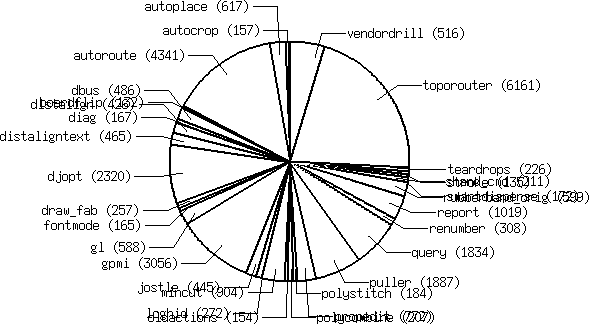
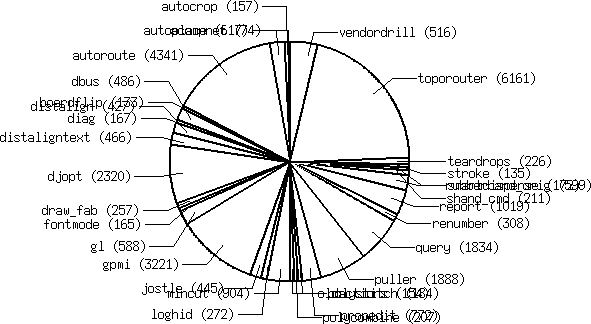
[doc] -Update: mods3 to current state
git-svn-id: svn://repo.hu/pcb-rnd/trunk@5838 1d61de99-560f-4dba-8957-1e505d42358b

diff --git a/doc/developer/mods3/index.html b/doc/developer/mods3/index.html
@@ -86,6 +86,11 @@ Below is a table with the summary of core plugins.
 <tr><th>module <th>size [sloc] <th> status <th> configure<br>default <th> class <th> description
 
 
+<tr><th align=left>acompnet<td>74
+<td  > WIP
+<td bgcolor="red"> disable
+<td> (feature)
+<td> Auto-complete the current network. A very limited autorouter/assistant. 
 <tr><th align=left>autocrop<td>157
 <td bgcolor="lightgreen" > works
 <td bgcolor="lightgreen"> buildin
@@ -101,7 +106,7 @@ Below is a table with the summary of core plugins.
 <td bgcolor="lightgreen"> buildin
 <td> (feature)
 <td> Automatically route selected or all rats. This is the original autorouter. 
-<tr><th align=left>boardflip<td>132
+<tr><th align=left>boardflip<td>133
 <td  > WIP
 <br> (doesn't update rtrees)
 <td bgcolor="red"> disabled
@@ -118,12 +123,12 @@ Below is a table with the summary of core plugins.
 <td bgcolor="red"> disabled
 <td> (feature)
 <td> Actions for pcb-rnd core diagnostics, intended for developers. These are not in core because end users normally don't need these. As a plugin, due to dynamic loading, it can be dropped on an existing pcb-rnd installation with minimal risk of scaring away a reproducible bug. 
-<tr><th align=left>distalign<td>426
+<tr><th align=left>distalign<td>427
 <td bgcolor="lightgreen" > works
 <td bgcolor="lightgreen"> buildin
 <td> (feature)
 <td> Introducing Align() and Distribute(), which work much like the similarly named functions in Visio. Given that PCB does not have the concept of "first selected object" to draw on, the reference points can be selected by arguments. 
-<tr><th align=left>distaligntext<td>465
+<tr><th align=left>distaligntext<td>466
 <td bgcolor="lightgreen" > works
 <td bgcolor="lightgreen"> buildin
 <td> (feature)
@@ -138,7 +143,7 @@ Below is a table with the summary of core plugins.
 <td bgcolor="lightgreen"> buildin
 <td> (feature)
 <td> Draw the fab layer (for various exporters). 
-<tr><th align=left>export_bboard<td>419
+<tr><th align=left>export_bboard<td>410
 <td  > WIP
 <td bgcolor="red"> disabled
 <td> export
@@ -153,17 +158,17 @@ Below is a table with the summary of core plugins.
 <td bgcolor="red"> disable
 <td> export
 <td> Export specctra .dsn files 
-<tr><th align=left>export_dxf<td>3999
+<tr><th align=left>export_dxf<td>3987
 <td  > WIP
 <td bgcolor="red"> disabled
 <td> export
 <td> Export dxf 
-<tr><th align=left>export_gcode<td>2468
+<tr><th align=left>export_gcode<td>2470
 <td bgcolor="lightgreen" > works
 <td bgcolor="lightgreen"> buildin
 <td> export
 <td> Export to gcode 
-<tr><th align=left>export_gerber<td>989
+<tr><th align=left>export_gerber<td>939
 <td bgcolor="lightgreen" > works
 <td bgcolor="lightgreen"> buildin
 <td> export
@@ -178,32 +183,32 @@ Below is a table with the summary of core plugins.
 <td bgcolor="lightgreen"> buildin
 <td> export
 <td> Export to lpr (using export_ps to generate postscript) 
-<tr><th align=left>export_nelma<td>678
+<tr><th align=left>export_nelma<td>668
 <td bgcolor="lightgreen" > works
 <td bgcolor="lightgreen"> buildin
 <td> export
 <td> Export to nelma (Numerical capacitance calculator) 
-<tr><th align=left>export_openscad<td>1379
+<tr><th align=left>export_openscad<td>1373
 <td  > WIP
 <td bgcolor="red"> disabled
 <td> export
 <td> Export openscad 
-<tr><th align=left>export_png<td>1119
+<tr><th align=left>export_png<td>1090
 <td bgcolor="lightgreen" > works
 <td bgcolor="lightgreen"> buildin
 <td> export
 <td> Export to png, gif and jpeg 
-<tr><th align=left>export_ps<td>1638
+<tr><th align=left>export_ps<td>1623
 <td bgcolor="lightgreen" > works
 <td bgcolor="lightgreen"> buildin
 <td> export
 <td> Export postscript or embedded postscript. 
-<tr><th align=left>export_stat<td>258
+<tr><th align=left>export_stat<td>259
 <td bgcolor="lightgreen" > works
 <td bgcolor="lightgreen"> buildin
 <td> export
 <td> Export various board statistics in lihata format 
-<tr><th align=left>export_svg<td>566
+<tr><th align=left>export_svg<td>562
 <td bgcolor="lightgreen" > works
 <td bgcolor="lightgreen"> buildin
 <td> export
@@ -240,7 +245,7 @@ Below is a table with the summary of core plugins.
 <td bgcolor="red"> disabled
 <td> (feature)
 <td> Common gl functions for hids. 
-<tr><th align=left>gpmi<td>3056
+<tr><th align=left>gpmi<td>3221
 <td bgcolor="lightgreen" > works
 <td bgcolor="lightgreen"> buildin
 <br> (if gpmi is installed)
@@ -251,12 +256,12 @@ Below is a table with the summary of core plugins.
 <td bgcolor="lightgreen"> buildin
 <td> hid
 <td> HID without GUI; read actions from stdin. 
-<tr><th align=left>hid_gtk<td>16254
+<tr><th align=left>hid_gtk<td>16287
 <td bgcolor="lightgreen" > works
 <td bgcolor="lightgreen"> buildin
 <td> hid
 <td> GUI: the GTK HID. 
-<tr><th align=left>hid_lesstif<td>6917
+<tr><th align=left>hid_lesstif<td>6919
 <td bgcolor="lightgreen" > works
 <td bgcolor="lightgreen"> buildin
 <td> hid
@@ -286,12 +291,12 @@ Below is a table with the summary of core plugins.
 <td bgcolor="lightgreen"> buildin
 <td> import
 <td> Import plugin for netlists in the classic pcb netlist format. 
-<tr><th align=left>import_sch<td>302
+<tr><th align=left>import_sch<td>305
 <td bgcolor="lightgreen" > works
 <td bgcolor="lightgreen"> buildin
 <td> import
 <td> Imports element and netlist data from the schematics (or some other source). 
-<tr><th align=left>io_kicad<td>2971
+<tr><th align=left>io_kicad<td>2987
 <td bgcolor="lightgreen" > works
 <td bgcolor="lightgreen"> buildin
 <td> io
@@ -301,12 +306,12 @@ Below is a table with the summary of core plugins.
 <td bgcolor="lightgreen"> buildin
 <td> io
 <td> Export the design and elements in Kicad's legacy format. 
-<tr><th align=left>io_lihata<td>1935
+<tr><th align=left>io_lihata<td>1973
 <td bgcolor="lightgreen" > works
 <td bgcolor="lightgreen"> buildin
 <td> io
 <td> Load and save the design and elements in the lihata board format. 
-<tr><th align=left>io_pcb<td>2172
+<tr><th align=left>io_pcb<td>2200
 <td bgcolor="lightgreen" > works
 <td bgcolor="lightgreen"> buildin
 <td> io
@@ -321,7 +326,7 @@ Below is a table with the summary of core plugins.
 <td bgcolor="red"> disabled
 <td> (lib)
 <td> S-expression parser lib 
-<tr><th align=left>lib_legacy_func<td>63
+<tr><th align=left>lib_legacy_func<td>87
 <td bgcolor="lightgreen" > works
 <td bgcolor="lightgreen"> buildin
 <td> (lib)
@@ -356,7 +361,7 @@ Below is a table with the summary of core plugins.
 <td bgcolor="lightgreen"> buildin
 <td> (feature)
 <td> List and edit properties of a group of objects. 
-<tr><th align=left>puller<td>1887
+<tr><th align=left>puller<td>1888
 <td bgcolor="lightgreen" > works
 <td bgcolor="lightgreen"> buildin
 <td> (feature)
